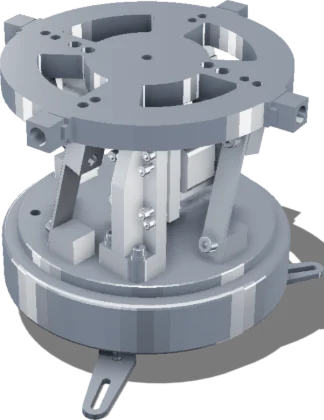
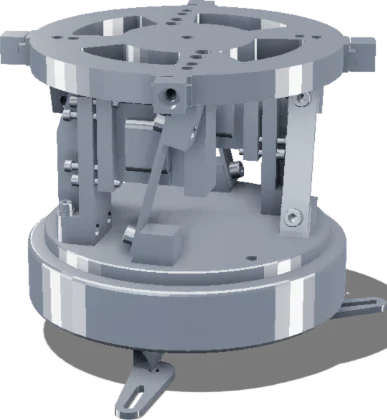
옆코아 진동기 그림 — 코어 둘이 다 보이는 각도로
"코어가 2개 다 보여야 하는데 1개만 보인다" 는 지적을 받았다. 재 보니 맞다 —
최종 크기(잉크 높이 420)에서 코어 둘을 빨강·초록으로 칠해 세면
**첫째 1,563px · 둘째 0px** 였다. 둘째는 「조금 가린」 게 아니라 통째로
안 보였다.

코어 둘은 상판 **아래** 낮은 자리에 90도 벌어져 붙어 있다. 그래서 내려다보는
각도(el 30)에서는 방위를 36도씩 다 돌려 봐도 둘째가 2,000px(렌더 1120px
기준)를 못 넘는다. 고도를 낮춰 옆구리로 들여다봐야 한다.

  el 30 (지금)        1,563 /     0
  el 24 · 회전 115도    701 /   594
  el 18 · 회전 120도  1,266 / 1,135   ← 골랐다

카메라는 넷이 같아야 결이 맞는데 이 한 장만 el 18 이다. 넷을 나란히 놓고
봤을 때 상판이 조금 더 눕는 정도라 결은 유지됐다. 어긋나 보이면 넷을 다
el 18 로 다시 구울 것 — 그때는 w·cx 넷과 --span 계수를 전부 다시 재야 한다.

폭이 324 → 387 로 넓어져 cx(0.469 → 0.479)와 --span 계수(0.2877 → 0.2758,
여섯 곳)를 다시 쟀다. 히어로 가로 넘침은 15크기 전부 0.

⚠ 세는 방법이 한 번 틀렸다. 처음에 `R>170 && G<90` 처럼 **밝기**로 갈랐더니
   접촉 음영(AO)이 깎은 어두운 빨강이 전부 "안 보임" 으로 잡혔다. 안쪽 깊이
   든 코어일수록 더 깎이니 가장 중요한 자리에서 가장 크게 틀린다. 그 탓에
   한때 "el 30 에서는 불가능하다" 고 잘못 말했다. 색조비로 갈라야 맞는다.

diff --git a/src/app/page.tsx b/src/app/page.tsx
@@ -638,6 +638,28 @@ const VIBRATORS = [
      ⚠ **넷 다 STEP 을 three.js 로 렌더한 것**이다. 같은 설정이어야 결이 맞는다.
 
           카메라   az 45도 · el 30도 · fov 26
+                   ⚠⚠ **옆코아만 el 18 이고, 모델을 Y축으로 120도 돌렸다.**
+                      2026-10-19 에 "코어가 2개 다 보여야 하는데 1개만
+                      보인다" 는 말을 받았다. 코어 둘은 상판 **아래** 낮은
+                      자리에 90도 벌어져 붙어 있어, 위에서 내려다보는 el 30
+                      에서는 상판 테두리가 둘째를 통째로 가린다 — 최종 크기
+                      (잉크 높이 420)에서 재면 **첫째 1,563px · 둘째 0px**
+                      이었다. 방위를 36도씩 다 돌려 봐도 el 30 에서는 둘째가
+                      2,000px(렌더 1120px 기준)를 못 넘는다. 고도를 낮춰야
+                      옆구리로 보인다 — el 18 · 모델 회전 120도에서
+                      **1,266px · 1,135px** 로 둘이 거의 같아진다.
+                      ⚠ 고도를 더 올리면(el 24) 둘 다 보이긴 하나 701·594px
+                         으로 반토막이다. el 18 이 최댓값이다.
+                      ⚠ **셌던 방법이 한 번 틀렸다.** 코어를 빨강·초록으로
+                         칠해 픽셀을 세는데, 처음에 `R>170 && G<90` 처럼
+                         **밝기**로 갈랐더니 접촉 음영(AO)이 깎은 어두운
+                         빨강이 전부 "안 보임" 으로 잡혔다. 안쪽 깊이 든
+                         코어일수록 더 깎이니 **가장 중요한 자리에서 가장
+                         크게 틀린다.** 색조비(R > G·1.6)로 바꿔야 맞는다.
+                      ⚠ 넷 중 이 한 장만 고도가 다르다. 넷을 나란히 놓고
+                         봤을 때 결은 유지됐다(상판이 조금 더 눕는 정도).
+                         어긋나 보이면 **넷을 다 el 18 로** 다시 구울 것 —
+                         그때는 w·cx 넷과 --span 계수를 전부 다시 재야 한다.
           조명     ambient 0.75 + key(1,1.4,1.1) 2.0
                    + fill(-1.2,0.3,-0.8) 0.8 + rim(0,-1,-0.6) 0.5
           재질     metalness 0.35 · roughness 0.52
@@ -832,7 +854,7 @@ const VIBRATORS = [
         바뀌면 값이 통째로 달라진다. */
   { no: "고주파 진동기", w: 391, h: 420, cx: 0.486, src: "/images/hero/vibrator-hifreq.webp", alt: "2호 고주파진동기" },
   { no: "구형 진동기", w: 362, h: 420, cx: 0.445, src: "/images/hero/vibrator-round.webp", alt: "2호 구형진동기" },   // ⚠ 커버를 벗기며 355 → 362
-  { no: "옆코아 진동기", w: 324, h: 420, cx: 0.469, src: "/images/hero/vibrator-sidecore.webp", alt: "2호 옆코아진동기" },
+  { no: "옆코아 진동기", w: 387, h: 420, cx: 0.479, src: "/images/hero/vibrator-sidecore.webp", alt: "2호 옆코아진동기" },   // ⚠ 코어 둘을 다 보이게 돌리며 324 → 387
   { no: "75도 진동기", w: 383, h: 420, cx: 0.556, src: "/images/hero/vibrator-75deg.webp", alt: "2호 75도진동기" },
 ];
 
@@ -1447,15 +1469,15 @@ export default function Home() {
                      ul 은 100% 를 쓰며, **남는 폭 전부를 간격 셋이 나눈다.**
 
                      --h    가장 큰 4호의 **높이** 상한
-                     --span 네 그림 **폭의 합** = --h / 0.2877
-                            0.2877 = 420 / 1460 (가장 높은 그림 h / 네 폭의 합)
+                     --span 네 그림 **폭의 합** = --h / 0.2758
+                            0.2758 = 420 / 1523 (가장 높은 그림 h / 네 폭의 합)
                             ⚠ 2026-10-16 에 1453 → 1460 — 구형 커버를 벗겨 w 가 355 → 362
                             1419 는 네 폭의 합(207+288+375+549)
                      li     calc(var(--span) * 그 기종 폭 / 1419)
                      gap    (100% - --span) / 3   ← 남는 폭을 셋이 나눈다
 
                      ⚠ --span 에 min() 이 걸려 있다. 화면이 높고 좁으면
-                        --h/0.2877 가 100% 를 넘어 **간격이 음수**가 된다.
+                        --h/0.2758 가 100% 를 넘어 **간격이 음수**가 된다.
 
                      ⚠⚠ **아래 비율 숫자를 손대면 거짓이 된다.** 넷은 같은
                         도면에서 같은 축척으로 잘라 온 것이고 그 비가 곧
@@ -1489,7 +1511,7 @@ export default function Home() {
                              414 390 375 360  폭         126 117 111 105
                              320x568    (라인업 감춤)     -
 
-                           --span 이 min(--h/0.2877, 100% - 3rem) 이고
+                           --span 이 min(--h/0.2758, 100% - 3rem) 이고
                            Container 안쪽이 1088px 이라, 1440 이상에서는
                            1040px 에서 폭이 먼저 막는다. 좁은 폭에서는
                            화면 폭 자체가 막는다. **높이가 상한인 구간은
@@ -1505,7 +1527,7 @@ export default function Home() {
 
                         ⚠⚠ **1280x820 은 폭 상한 경계에 올라앉아 있다.**
                            이것 때문에 두 번 재서 맞췄다. --h 가 368.6 보다
-                           크면 --h/0.2877 가 1040 을 넘어 **폭이 먼저 막고**,
+                           크면 --h/0.2758 가 1040 을 넘어 **폭이 먼저 막고**,
                            그러면 --h 를 줄여도 4호가 402px 에서 꼼짝하지
                            않는다. 실제로 0.78svh - 262 로 720 을 잡았을 때
                            820 은 여전히 +2px 넘쳤다 — 높이를 깎았는데도
@@ -1551,7 +1573,7 @@ export default function Home() {
                            1440 에서 4호가 402px 그대로였다. 기본값은 여기
                            var() 의 **두 번째 인자**로 둔다. */
                   ["--span" as string]:
-                    "min(calc(var(--h) / 0.2877), var(--cap, calc(100% - 3rem)))",
+                    "min(calc(var(--h) / 0.2758), var(--cap, calc(100% - 3rem)))",
                   gap: "max(0.5rem, calc((100% - var(--span)) / 3))",
                 }}
               >
